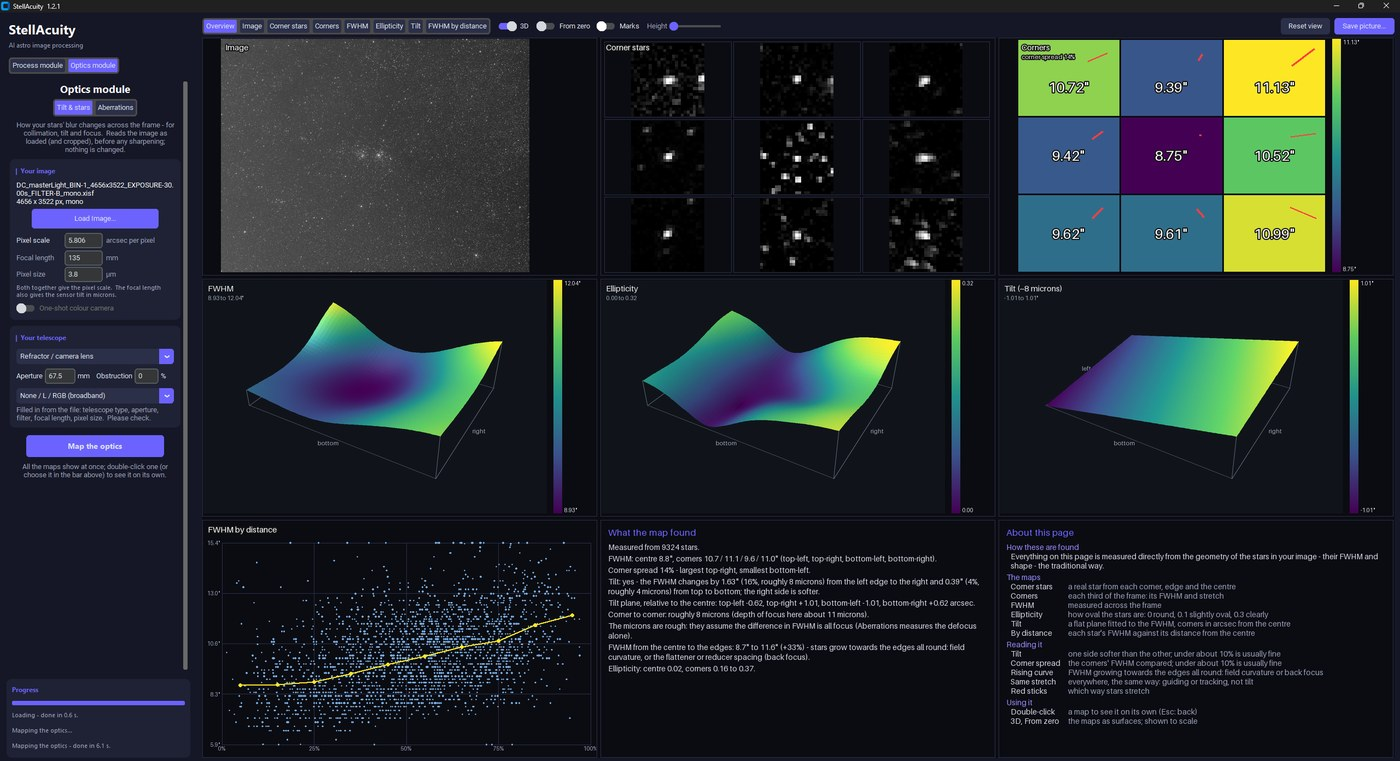
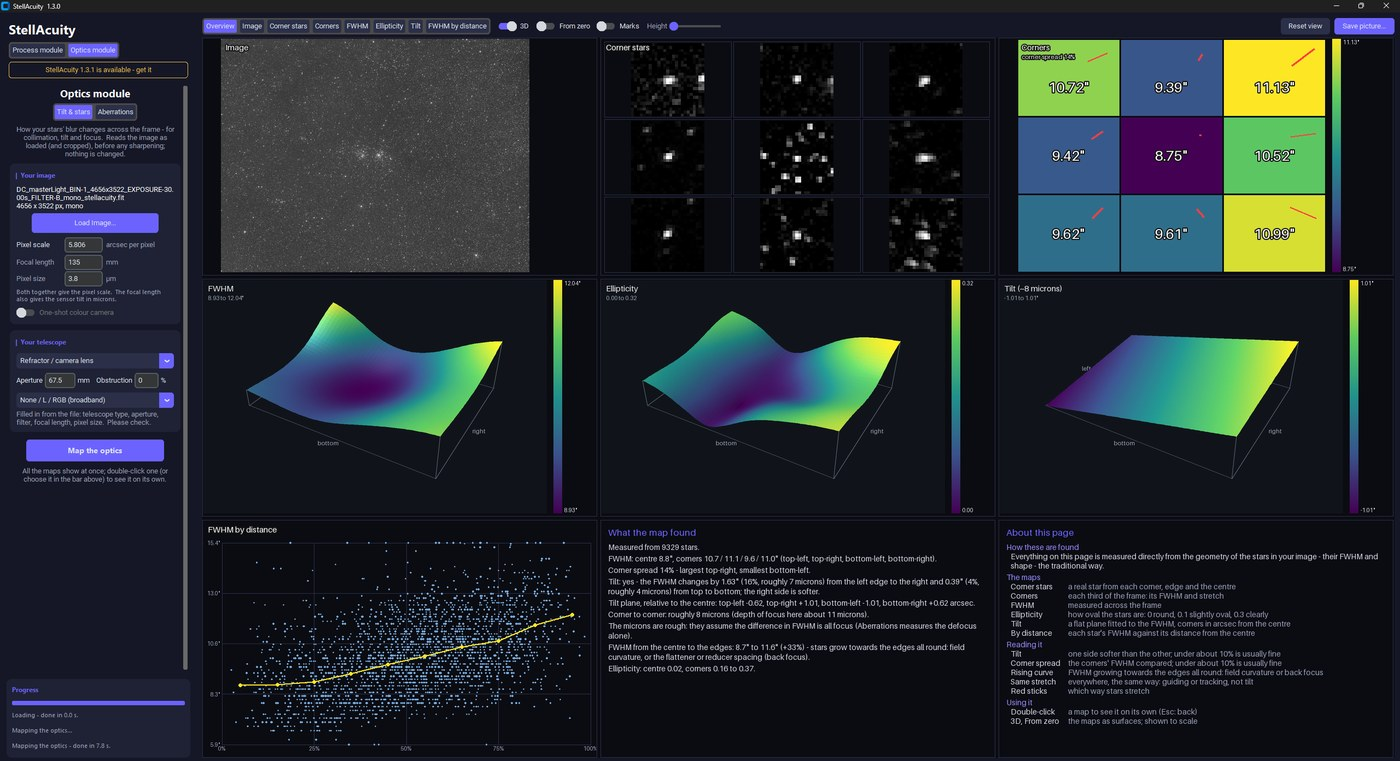
New Tilt & stars picture in the top grid

Changed region(s): [[0.0, 0.0302, 0.1229, 0.6347], [0.1843, 0.7556, 0.3993, 0.9671]]

diff --git a/index.html b/index.html
@@ -182,7 +182,7 @@
       <figure><img class="hero-shot" src="images/top_denoise.jpg?v=1.0" loading="lazy" width="1400" height="761"
                    alt="StellAcuity's Reduce noise step, before and after in a split view">
         <figcaption><b>Reduce noise</b> - cleaner backgrounds, stars and faint detail left as they are</figcaption></figure>
-      <figure><img class="hero-shot" src="images/top_tilt.jpg?v=1.0" loading="lazy" width="1400" height="761"
+      <figure><img class="hero-shot" src="images/top_tilt.jpg?v=1.1" loading="lazy" width="1400" height="761"
                    alt="StellAcuity's Optics module, Tilt and stars page">
         <figcaption><b>Optics module: Tilt &amp; stars</b> - tilt and focus from your stars' FWHM and shape</figcaption></figure>
       <figure><img class="hero-shot" src="images/top_aberrations.jpg?v=1.0" loading="lazy" width="1400" height="761"
